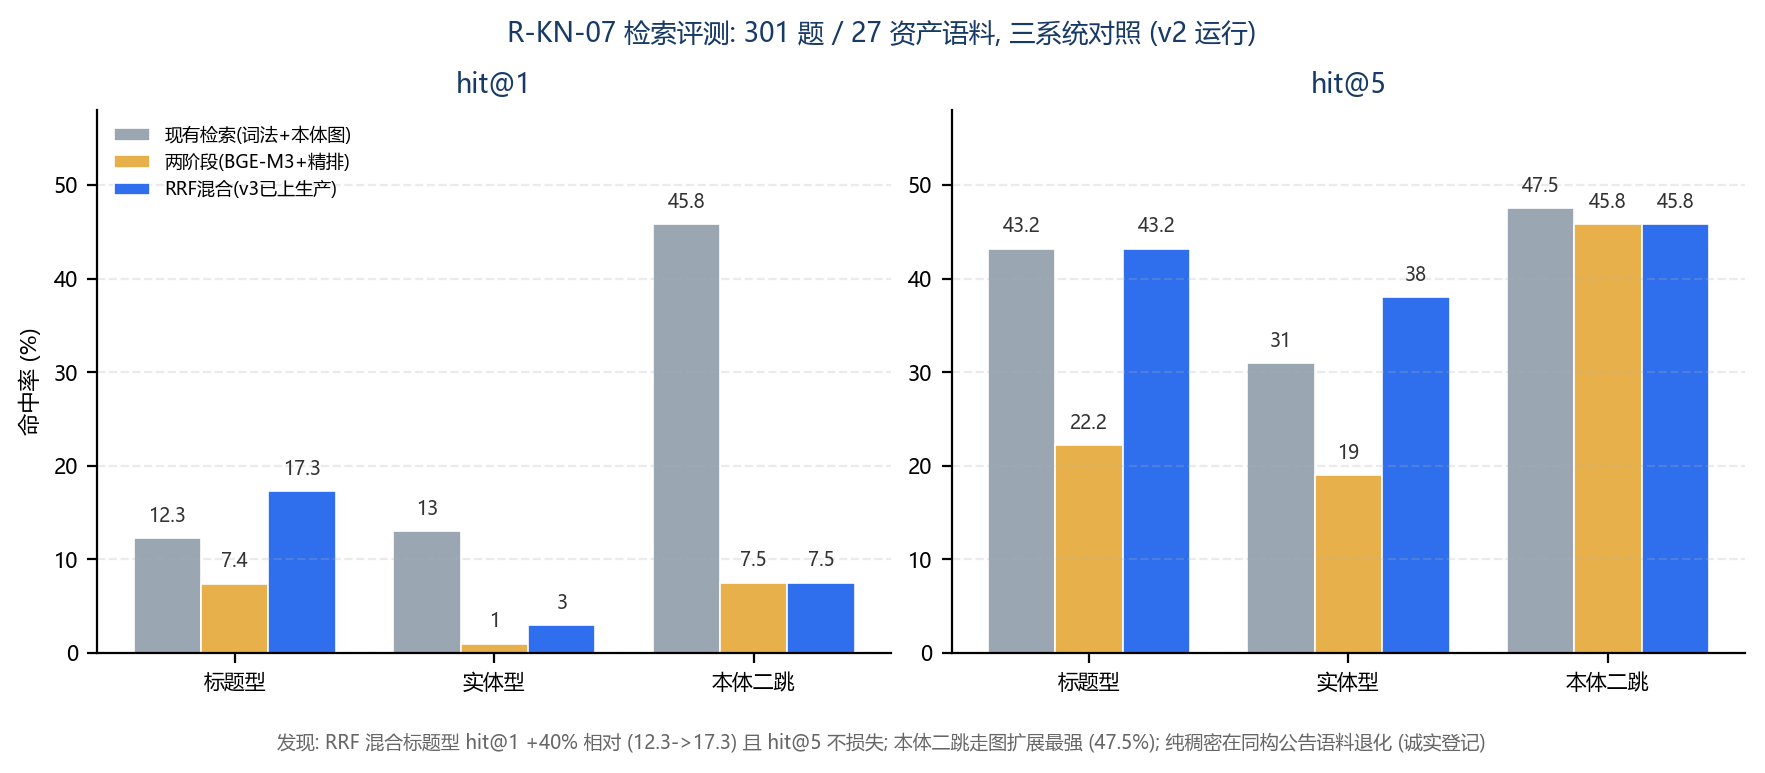
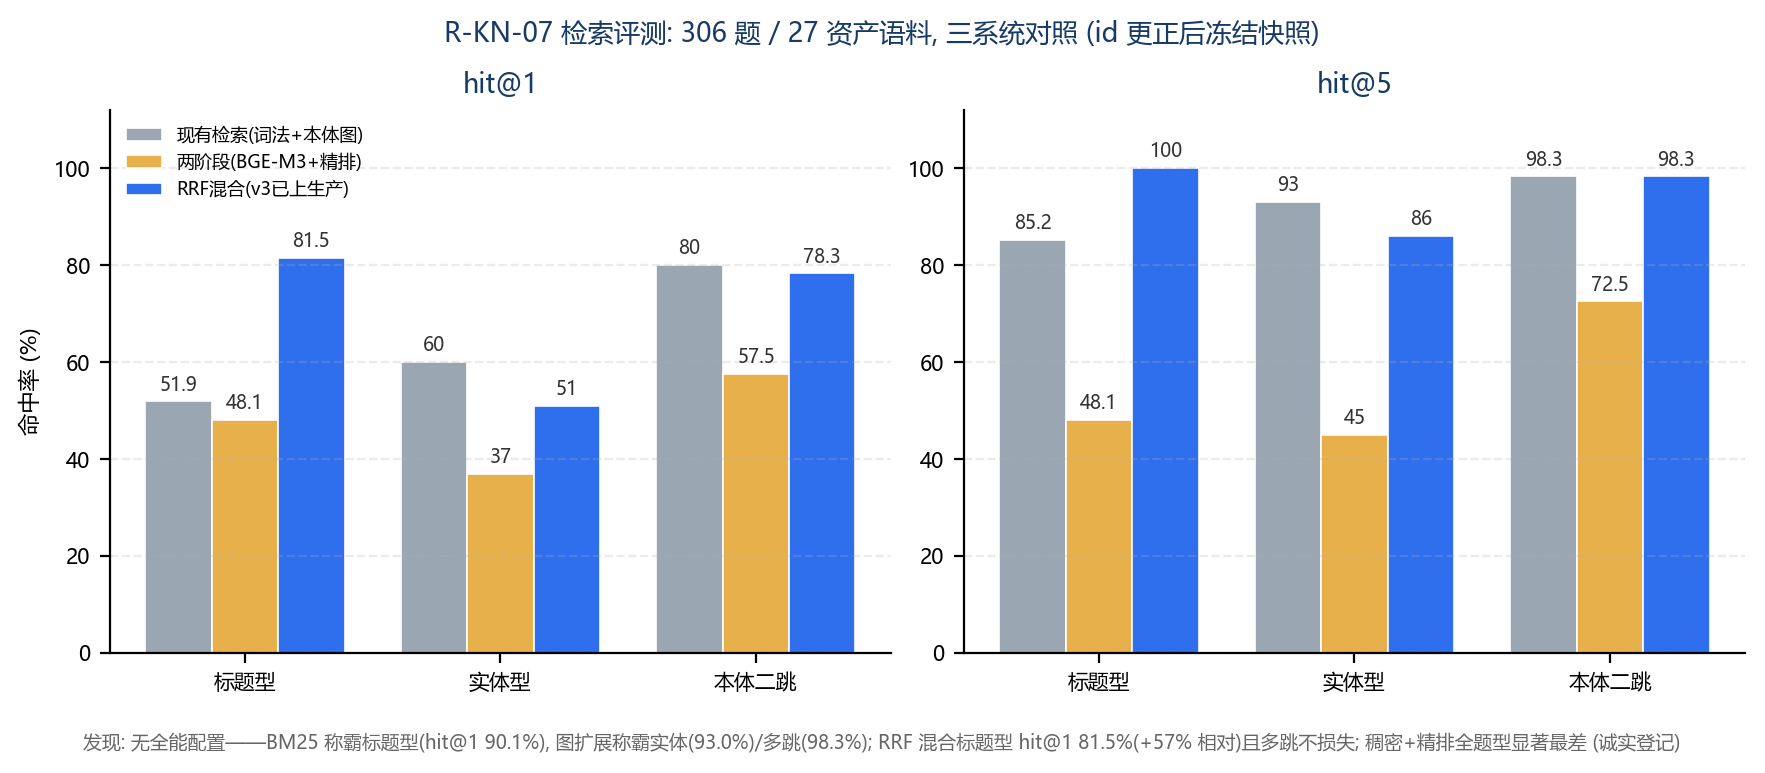
fix(materials-口径更正): 材料1/2/3检索数字按id冲突更正口径全量更新
- 材料2源(agent-design.md): §3.4 三系统表换更正后冻结快照数字(306题), v3段改93.8%/100%,
  规则路由器入节(≈oracle p=0.10), 三条诚实发现重写(无全能配置/稠密精排全题型显著最差/单信号路由),
  changelog补更正行; 附件指南(attachment-guide.md)同步
- 图14重绘(fig_retrieval_eval换更正数字, ylim/标题/发现行更新)
- 提交包docx: 01/03就地补丁(301题→306题, +40%→81.5%+57%), 02重渲, 三份docx复扫0残留
- 证据包同步: 更正后benchmark/eval/routing/yaml+更正文档, R-KN-08审计27文档版
- yaml补题量勘误注(301为笔误,实为306); 提交包README口径速览更新; check_claims CLEAN

diff --git a/scripts/make_huawei_track3_polish_figures.py b/scripts/make_huawei_track3_polish_figures.py
@@ -269,13 +269,13 @@ def fig_huawei_fullstack() -> None:
 
 
 def fig_retrieval_eval() -> None:
-    """R-KN-07 v2 三系统检索对照（hit@1 / hit@5 双面板）."""
+    """R-KN-07 三系统检索对照（hit@1 / hit@5 双面板，2026-10-26 id 更正后冻结快照）."""
     import numpy as np
 
     cats = ["标题型", "实体型", "本体二跳"]
     systems = ["现有检索(词法+本体图)", "两阶段(BGE-M3+精排)", "RRF混合(v3已上生产)"]
-    hit1 = {"baseline": [12.3, 13.0, 45.8], "twostage": [7.4, 1.0, 7.5], "hybrid": [17.3, 3.0, 7.5]}
-    hit5 = {"baseline": [43.2, 31.0, 47.5], "twostage": [22.2, 19.0, 45.8], "hybrid": [43.2, 38.0, 45.8]}
+    hit1 = {"baseline": [51.9, 60.0, 80.0], "twostage": [48.1, 37.0, 57.5], "hybrid": [81.5, 51.0, 78.3]}
+    hit5 = {"baseline": [85.2, 93.0, 98.3], "twostage": [48.1, 45.0, 72.5], "hybrid": [100.0, 86.0, 98.3]}
     colors = {"baseline": "#9AA6B2", "twostage": "#E8B04B", "hybrid": "#2F6FED"}
 
     fig, axes = plt.subplots(1, 2, figsize=(8.8, 3.5))
@@ -292,16 +292,16 @@ def fig_retrieval_eval() -> None:
         ax.set_xticks(x)
         ax.set_xticklabels(cats, fontsize=8)
         ax.set_title(title, fontsize=9.5, color="#173a66")
-        ax.set_ylim(0, 58)
+        ax.set_ylim(0, 112)
         ax.spines[["top", "right"]].set_visible(False)
         ax.tick_params(labelsize=7.5)
         ax.grid(axis="y", linestyle="--", alpha=0.25)
     axes[0].set_ylabel("命中率 (%)", fontsize=8)
     axes[0].legend(fontsize=6.5, loc="upper left", frameon=False)
-    fig.suptitle("R-KN-07 检索评测: 301 题 / 27 资产语料, 三系统对照 (v2 运行)",
+    fig.suptitle("R-KN-07 检索评测: 306 题 / 27 资产语料, 三系统对照 (id 更正后冻结快照)",
                  fontsize=9.5, color="#173a66", y=0.99)
     fig.text(0.5, -0.05,
-             "发现: RRF 混合标题型 hit@1 +40% 相对 (12.3->17.3) 且 hit@5 不损失; 本体二跳走图扩展最强 (47.5%); 纯稠密在同构公告语料退化 (诚实登记)",
+             "发现: 无全能配置——BM25 称霸标题型(hit@1 90.1%), 图扩展称霸实体(93.0%)/多跳(98.3%); RRF 混合标题型 hit@1 81.5%(+57% 相对)且多跳不损失; 稠密+精排全题型显著最差 (诚实登记)",
              ha="center", fontsize=6.8, color="#666")
     fig.tight_layout(pad=0.6)
     fig.savefig(OUT / "fig-m2-retrieval-eval.png", dpi=200, bbox_inches="tight")

diff --git a/docs/competitions/huawei-ict-track3-attachment-guide.md b/docs/competitions/huawei-ict-track3-attachment-guide.md
@@ -99,7 +99,7 @@
 | **R-NX-08** | `R-NX-08_COMPLETED.yaml` + `R-NX-08_ws-frames.json` | **托管平台完整 Skill 问答已完成**（9 分钟 1933 帧、真实模型、证据不足如实拒答；含完整修复链） |
 | R-NX-09 | `R-NX-09_recheck.yaml` | 本地官方源码部署完整 LLM Skill 问答（8 步 31 次工具调用、2777 字回答） |
 | **R-NX-10** | `R-NX-10_COMPLETED.yaml` + `evidence/hosted-qa-2026-10-25/`（12 张截图 + 2 份 ECS 服务端日志） | **托管平台 MCP 工具面真实调用验证已完成**（2026-10-25：两次问答共 6 次 MCP 调用、event_list 500 后自动重试成功、knowledge_search 200、平台调用链与服务端日志逐条对应） |
-| **R-KN-07** | `R-KN-07_retrieval-benchmark.yaml` + `R-KN-07_benchmark.json` + `R-KN-07_eval-results.json` | **检索评测基准与三系统对照**（2026-10-26：301 题[标题/实体/多跳/拒答]、27 资产语料；RRF 混合标题型 hit@1 +40% 相对提升并已合入生产接口 retrieval_mode=hybrid） |
+| **R-KN-07** | `R-KN-07_retrieval-benchmark.yaml` + `R-KN-07_benchmark.json` + `R-KN-07_eval-results.json` | **检索评测基准与三系统对照**（2026-10-26：306 题[标题/实体/多跳/拒答]、27 资产语料（id 更正后口径）；RRF 混合标题型 hit@1 81.5%（+57% 相对）并已合入生产接口 retrieval_mode=hybrid） |
 | **R-KN-08** | `R-KN-08_audit.yaml` + `R-KN-08_audit.json` | **本体证据可回溯审计**（2026-10-26：引用可回溯 89.9%、关系完全可回溯 85.0%、节点 96.0%；确定性核验零模型调用） |
 | R-KN-01~03 | `R-KN-01_latest.json`、`R-KN-02_ontology-eval.json`、`R-KN-03_incremental-eval.json` | 知识进化闭环 / 本体抽取确定性评测 / 增量维护对比（省 63.19%） |
 | R-KN-04 | `R-KN-04_knowledge-qa-trace.json` | 知识域问答轨迹（hop=0 直接引用） |
